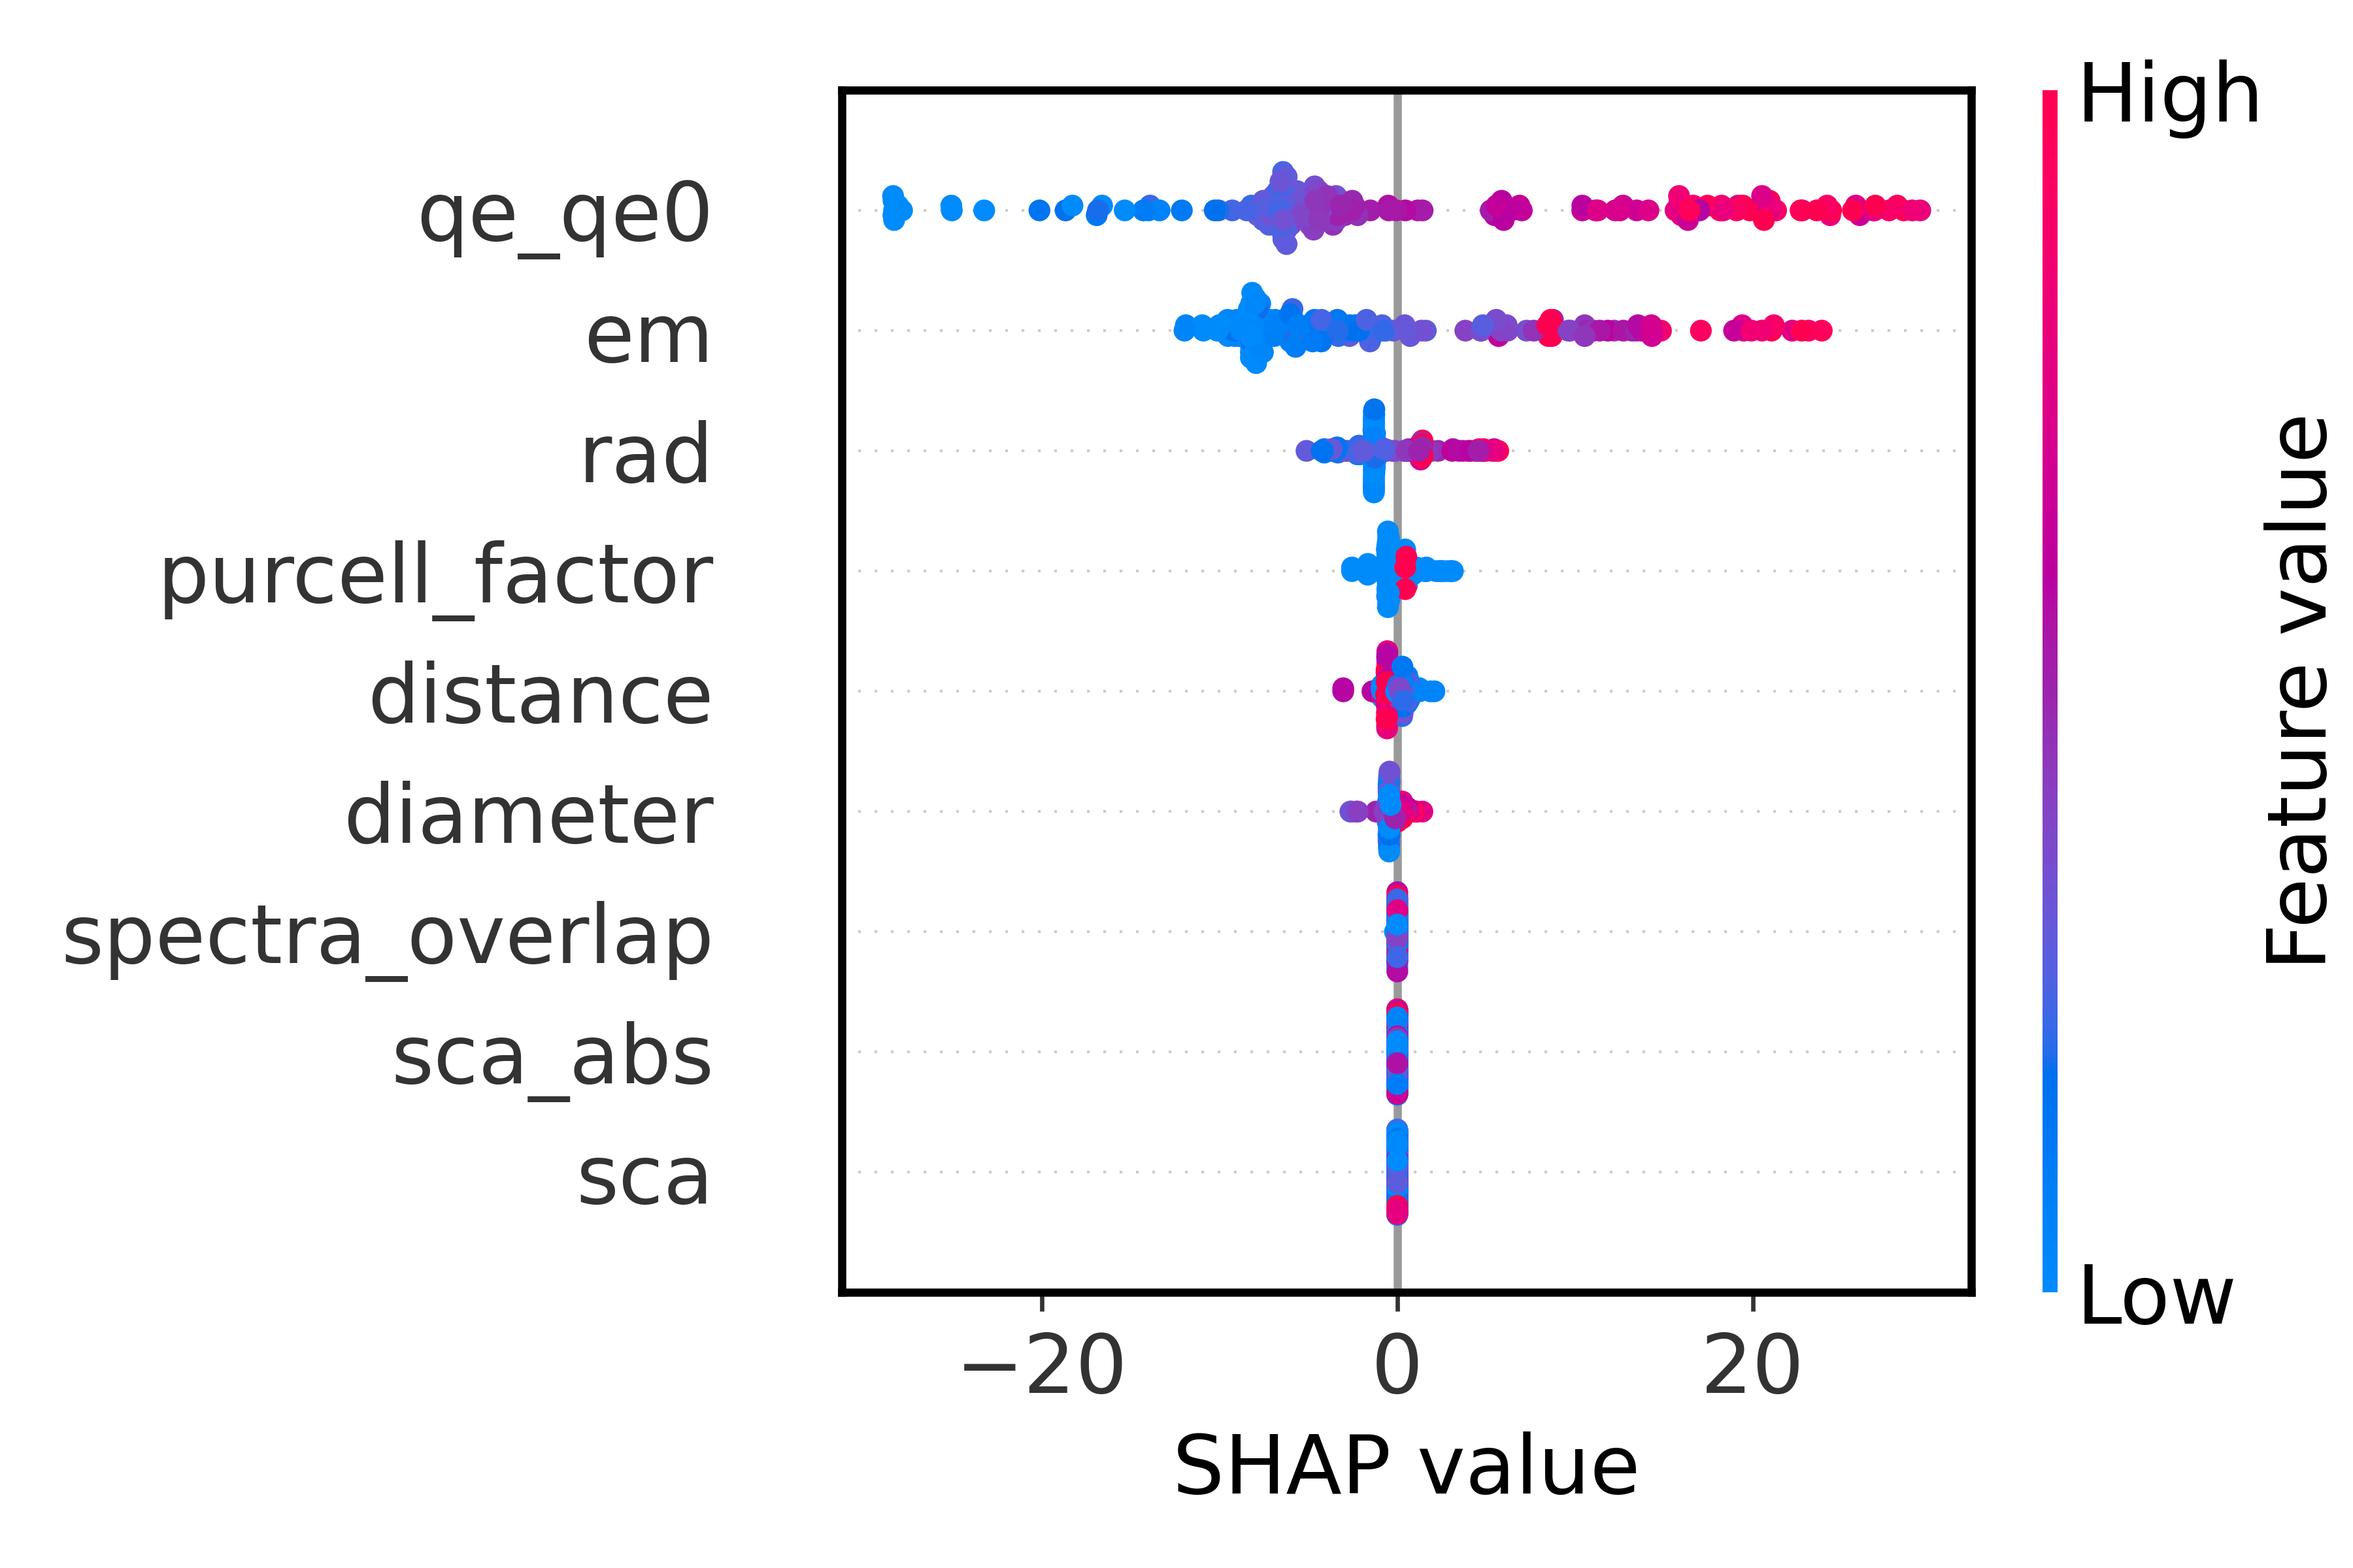
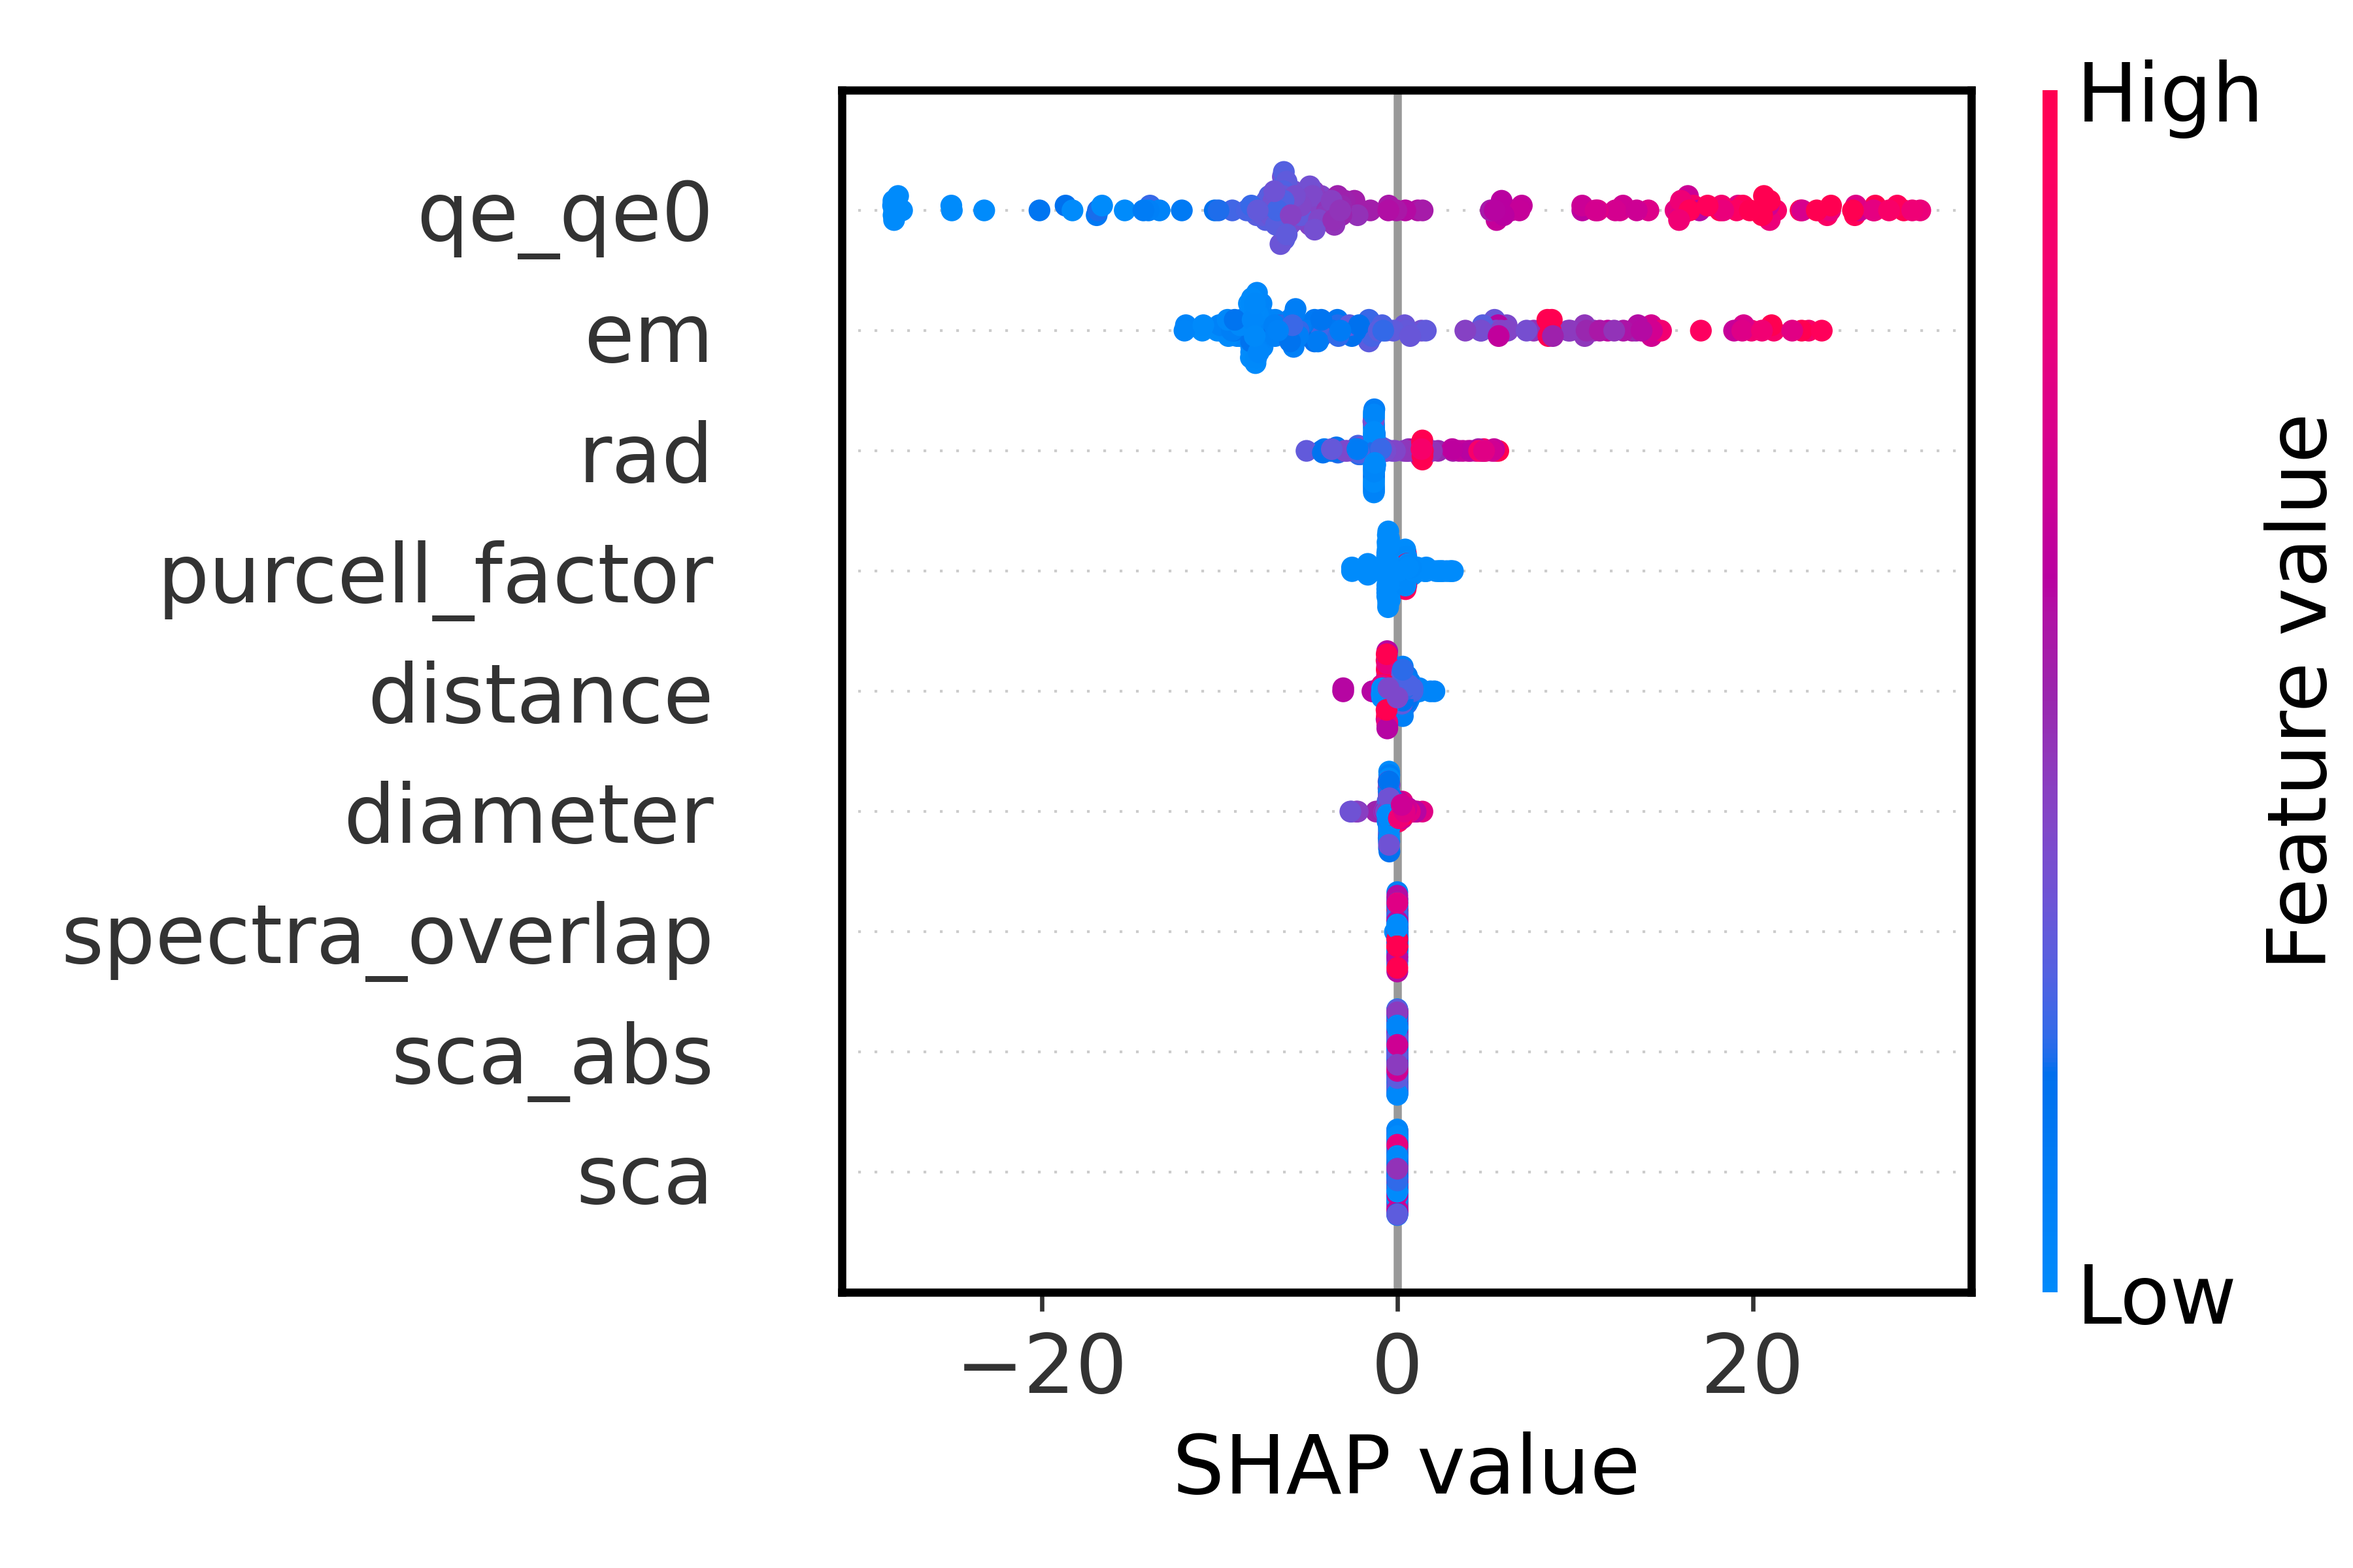
update check

diff --git a/gen3/xgboost_opt.py b/gen3/xgboost_opt.py
@@ -7,6 +7,7 @@ import seaborn as sns
 import shap
 from sklearn.metrics import mean_squared_error, r2_score
 from sklearn.model_selection import GridSearchCV, train_test_split
+from sklearn.preprocessing import StandardScaler
 from xgboost import XGBRegressor
 
 random.seed(42)
@@ -18,14 +19,17 @@ data = pd.read_csv("data/fe_merged.csv")
 X = data.drop(columns=["fe"])
 y = data["fe"]
 
+# Normalize the features
+scaler = StandardScaler()
+X_scaled = pd.DataFrame(scaler.fit_transform(X), columns=X.columns)
+
 # Splitting the data into training and testing sets
 X_train, X_test, y_train, y_test = train_test_split(
-    X, y, test_size=0.1, random_state=42
+    X_scaled, y, test_size=0.1, random_state=42
 )
 
 # Creating the XGBRegressor model
 xgb_model = XGBRegressor()
-
 
 # Define the parameter grid
 # param_grid = {
@@ -87,9 +91,18 @@ plt.close()
 
 # shapley values
 explainer = shap.TreeExplainer(optimized_xgb_model)
-shap_values = explainer.shap_values(X)
+shap_values = explainer.shap_values(X_scaled)
 
-shap.summary_plot(shap_values, X, show=False, feature_names=X.columns)
+# Get indices of the features we want to plot
+feature_indices_1 = [X_scaled.columns.get_loc(col) for col in ["em", "distance", "spectra_overlap", "sca_abs"]]
+
+# SHAP plot 1: Create a new SHAP summary plot with selected features
+shap.summary_plot(
+    shap_values[:, feature_indices_1],
+    X_scaled[["em", "distance", "spectra_overlap", "sca_abs"]],
+    show=False,
+    feature_names=["em", "distance", "spectra_overlap", "sca_abs"]
+)
 
 fig, ax = plt.gcf(), plt.gca()
 fig.set_size_inches(6, 4)
@@ -112,14 +125,51 @@ for label in ax.get_yticklabels():
     label.set_fontsize(15)
 
 plt.tight_layout()
-plt.savefig("./shap_summary_E.png", dpi=600, format="png")
+plt.savefig("./shap_summary_em_distance_spectra_overlap_sca_abs.png", dpi=600, format="png")
 plt.close()
 
+
+# SHAP plot 2: Create a SHAP dependence plot for the selected features
+# Get indices for the three features we want to plot
+feature_indices_2 = [X_scaled.columns.get_loc(col) for col in ["distance", "spectra_overlap", "sca_abs"]]
+
+shap.summary_plot(
+    shap_values[:, feature_indices_2],
+    X_scaled[["distance", "spectra_overlap", "sca_abs"]],
+    show=False,
+    feature_names=["distance", "spectra_overlap", "sca_abs"]
+)
+
+fig, ax = plt.gcf(), plt.gca()
+fig.set_size_inches(6, 4)
+
+ax.set_xlabel("SHAP value", fontsize=15)
+ax.spines["right"].set_visible(True)
+ax.spines["left"].set_visible(True)
+ax.spines["top"].set_visible(True)
+ax.spines["right"].set_linewidth(1.5)
+ax.spines["top"].set_linewidth(1.5)
+ax.spines["bottom"].set_linewidth(1.5)
+ax.spines["left"].set_linewidth(1.5)
+plt.xticks(fontsize=15)
+plt.yticks(fontsize=15)
+fig.axes[-1].yaxis.label.set_size(15)
+fig.axes[-1].get_yticklabels()[0].set_fontsize(15)
+fig.axes[-1].get_yticklabels()[-1].set_fontsize(15)
+
+for label in ax.get_yticklabels():
+    label.set_fontsize(15)
+
+plt.tight_layout()
+plt.savefig("./shap_summary_distance_spectra_overlap_sca_abs.png", dpi=600, format="png")
+plt.close()
+
+
 # Create a mask for the upper triangle
-mask = np.triu(np.ones_like(X.corr(), dtype=bool))
+mask = np.triu(np.ones_like(X_scaled.corr(), dtype=bool))
 
 # Round correlation values to 2 decimal places and set very small values to 0
-corr_matrix = X.corr()
+corr_matrix = X_scaled.corr()
 corr_matrix = np.round(corr_matrix, 2)
 corr_matrix[np.abs(corr_matrix) < 0.01] = 0
 
